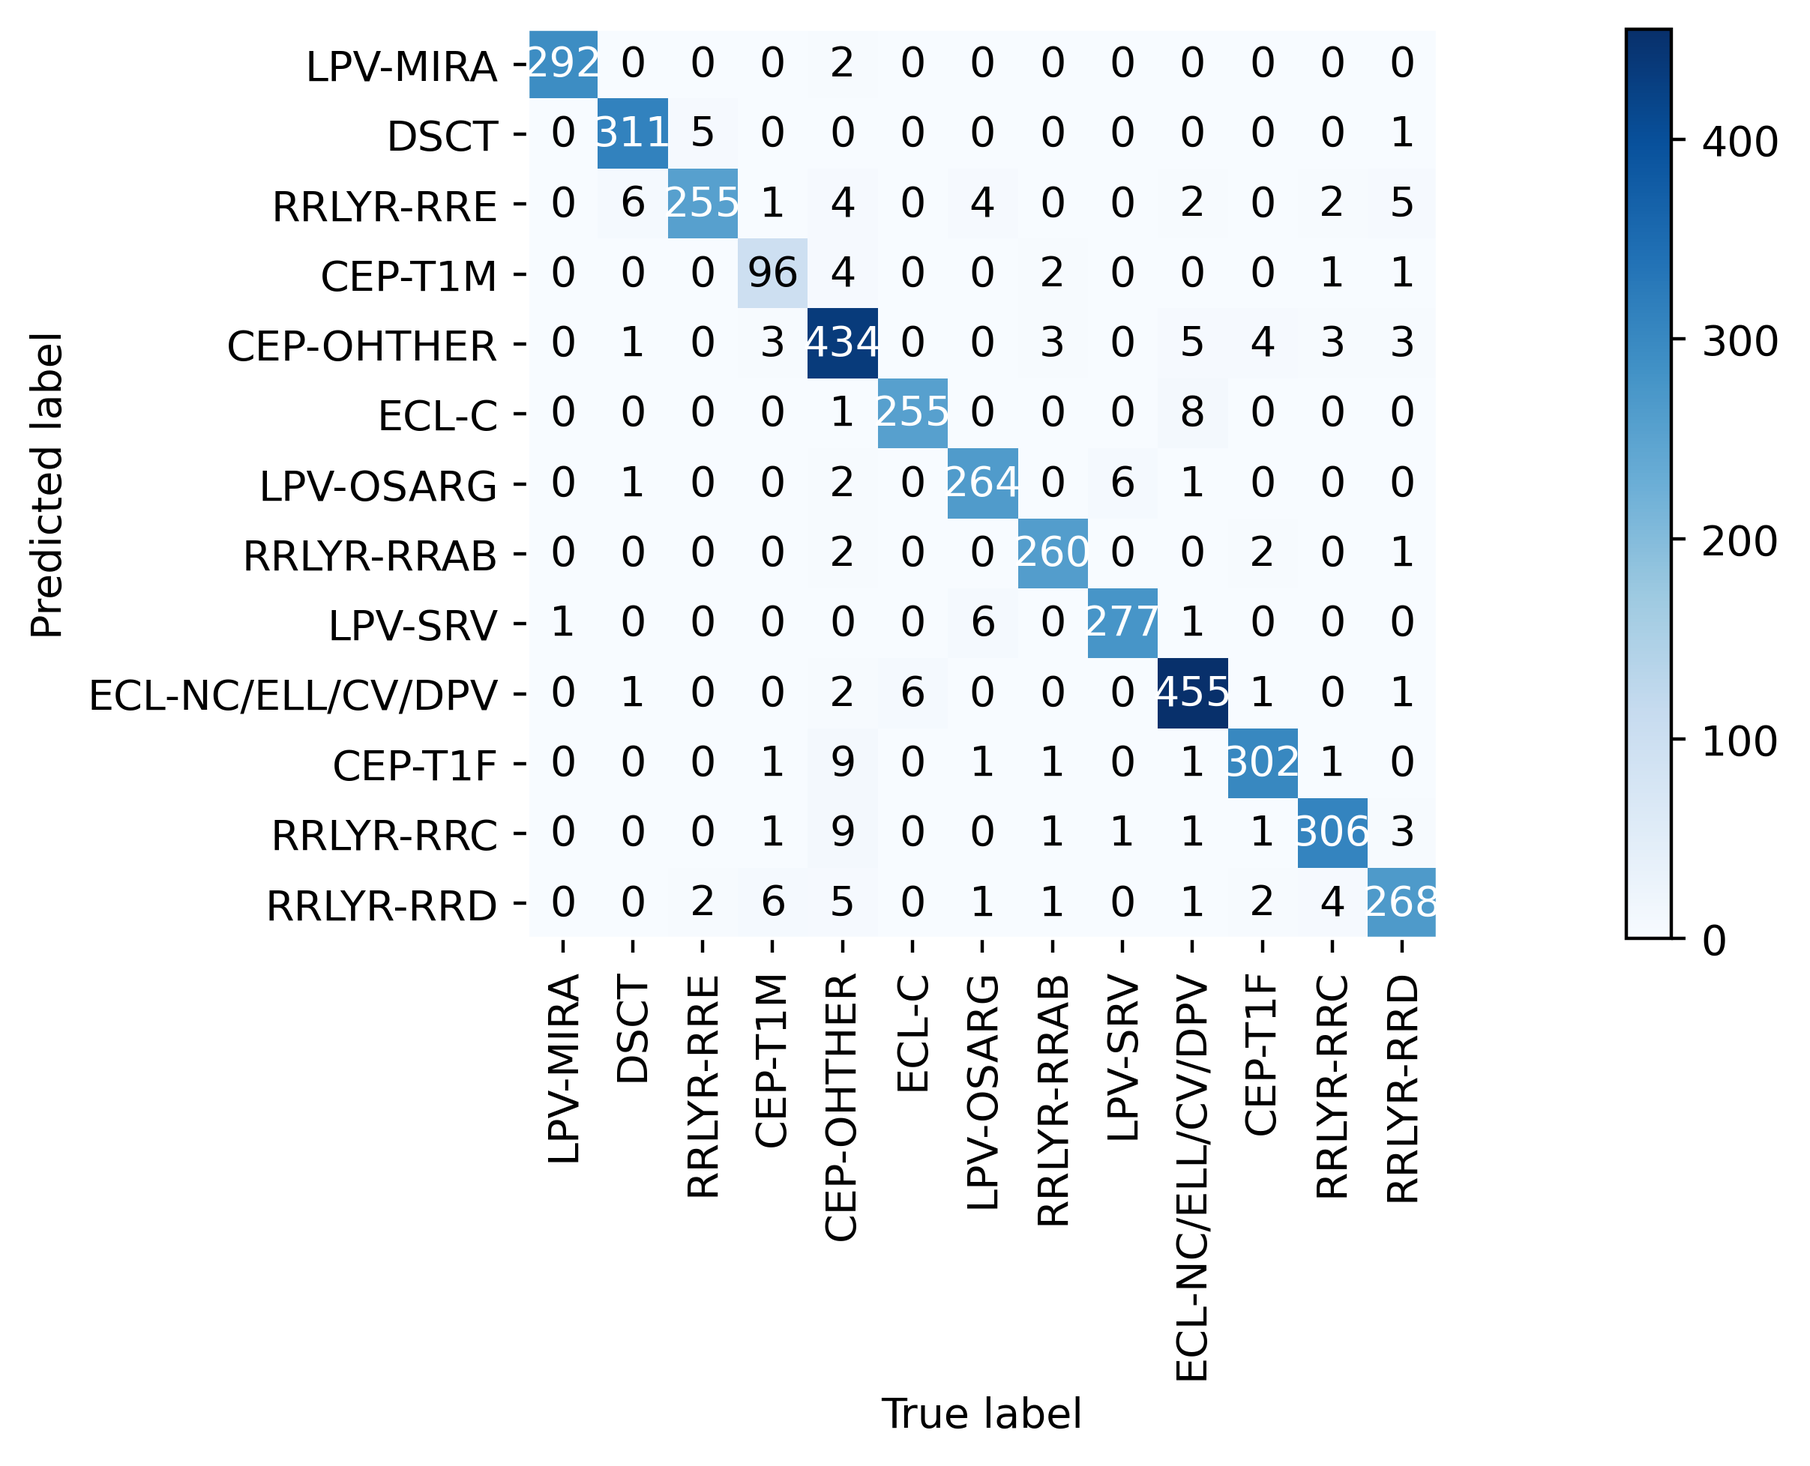
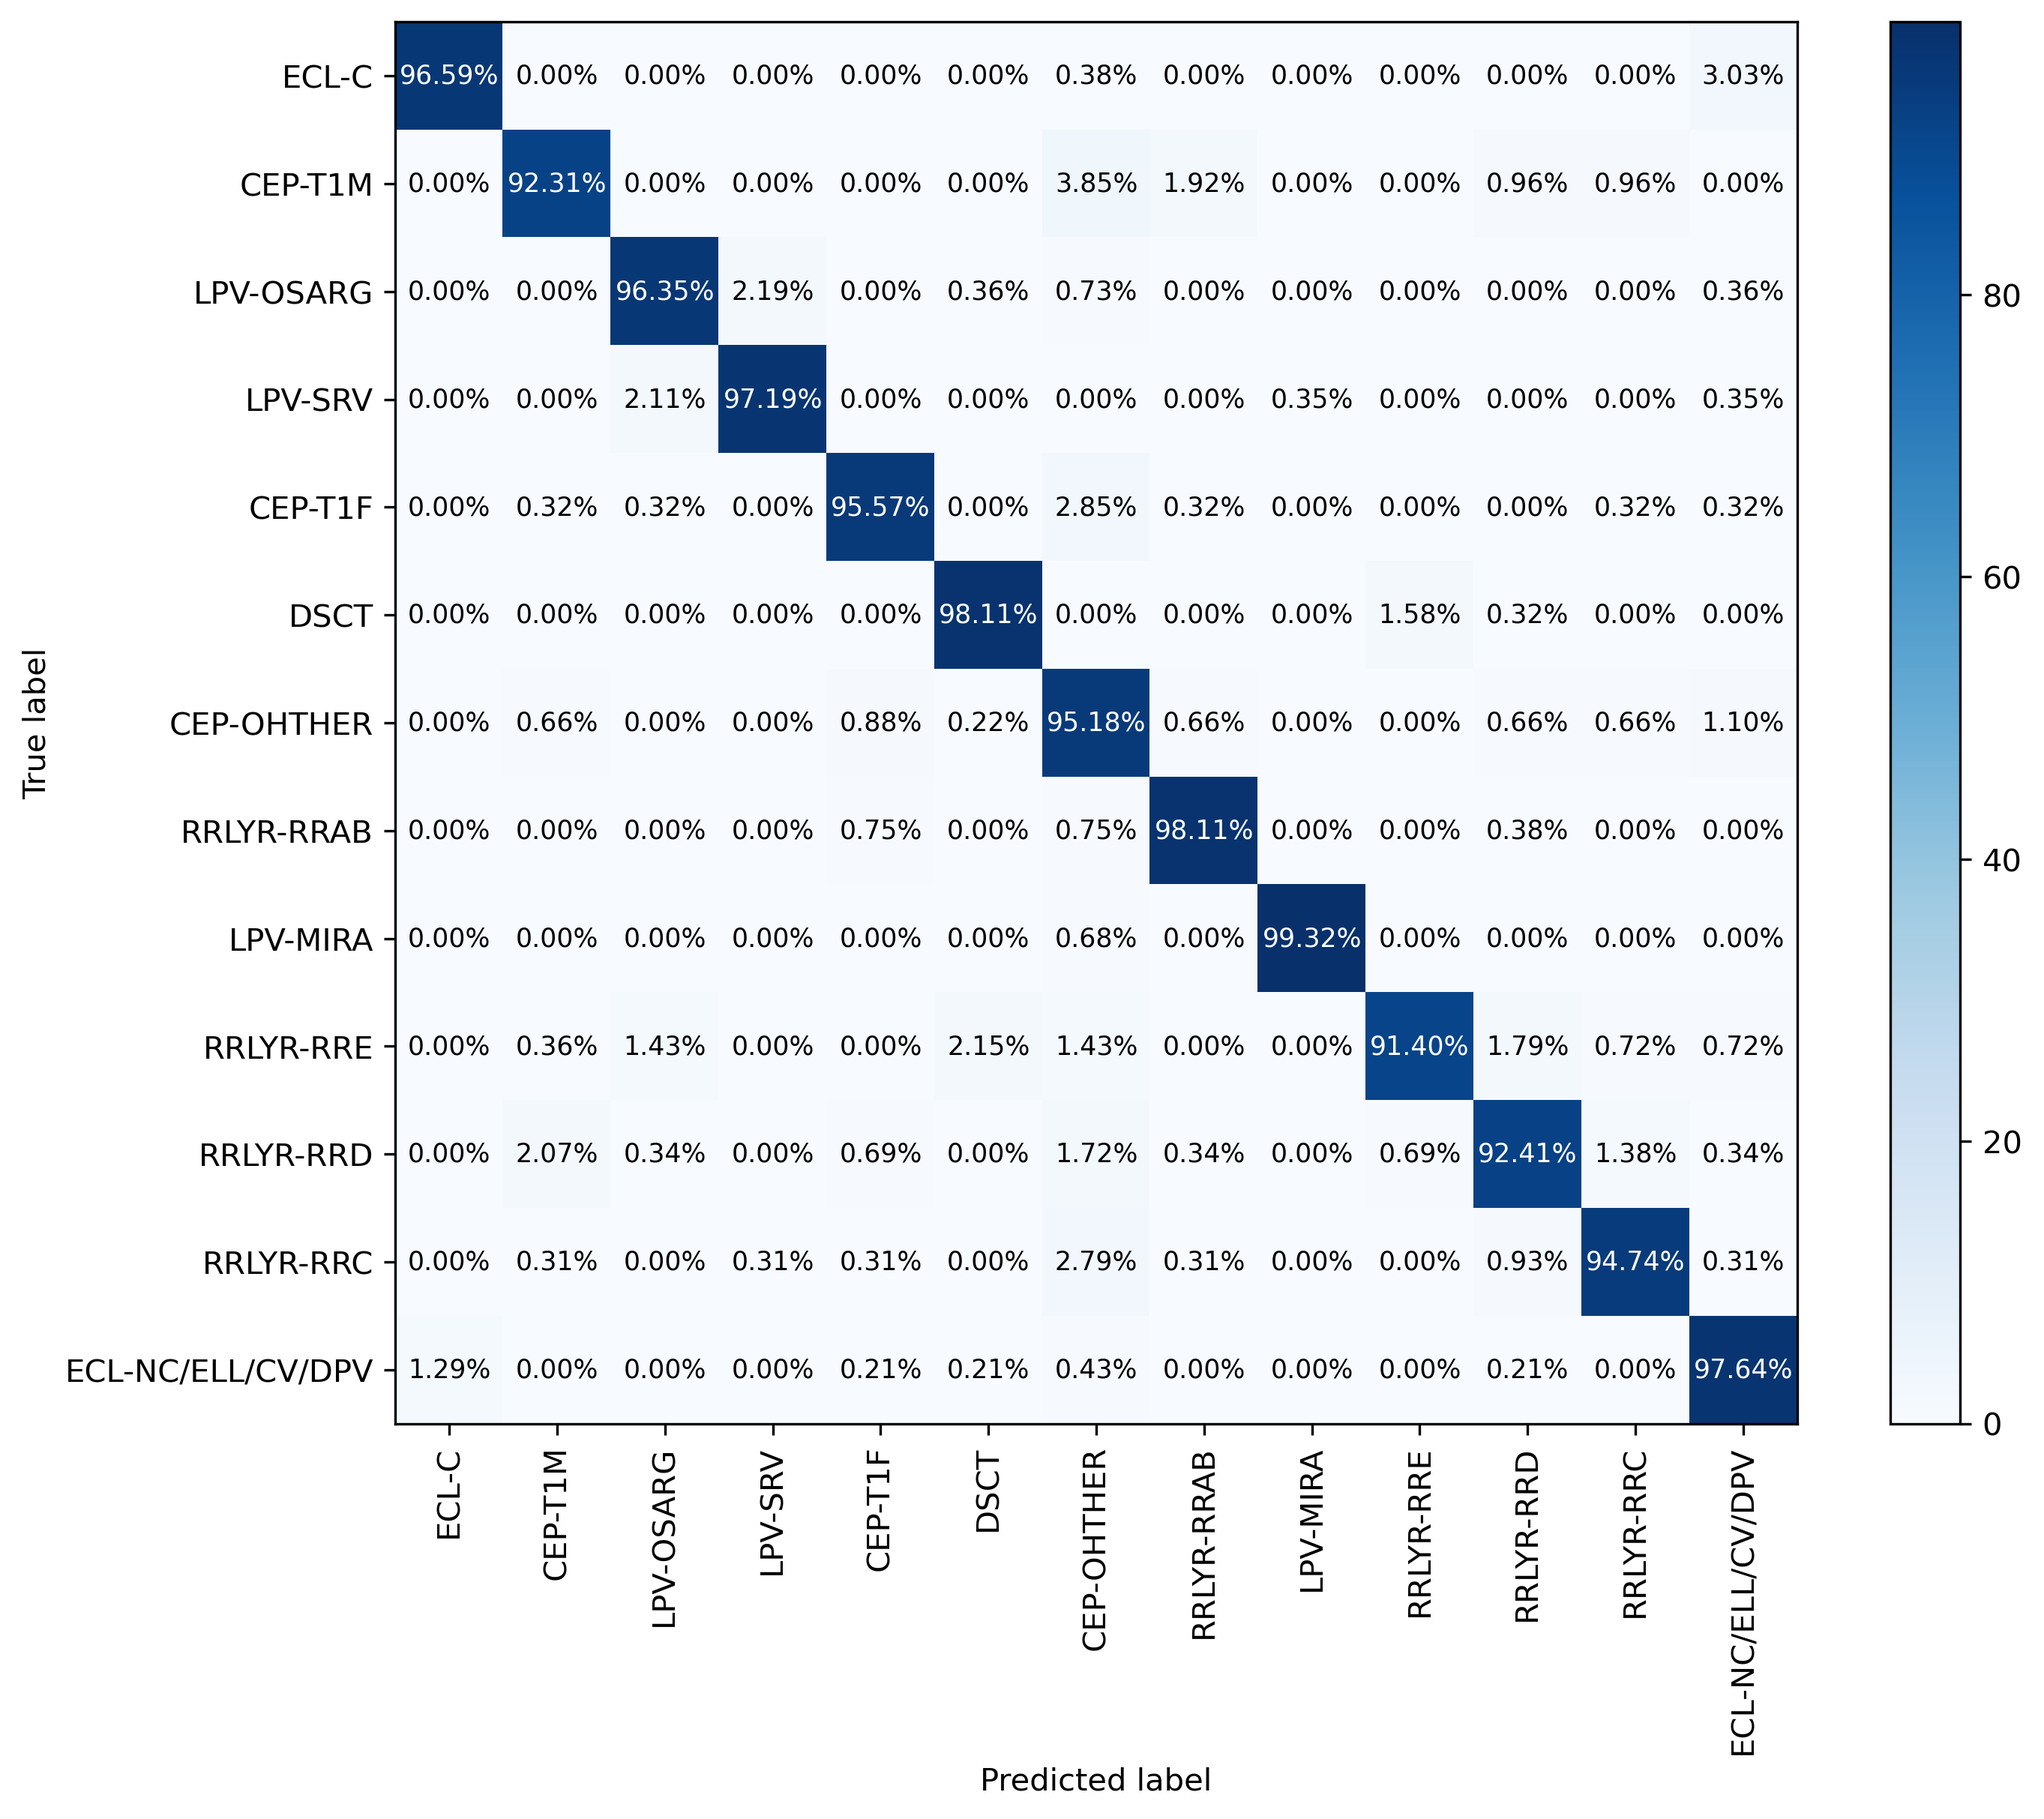
modify the implementation of confusion_matrix

Changed region(s): [[0.0311, 0.0, 0.9942, 0.9668], [0.466, 0.9356, 0.5903, 0.998], [0.0, 0.2183, 0.0311, 0.4366]]

diff --git a/classfiy.py b/classfiy.py
@@ -43,22 +43,14 @@ def str2int_list(l, classes):
                 l_int.append(j)
     return np.array(l_int)
 
-
-def plot_confusion_matrix(
-    cm,
-    classes,
-    title,
-    epoch,
-    dataset_name,
-    normalize=False,
-    cmap=plt.cm.Blues,
-):
+def plot_confusion_matrix(cm, classes, title, epoch, dataset_name, normalize=False, cmap=plt.cm.Blues):
+    plt.figure(figsize=(10, 8))  # Adjust figure size here
     if normalize:
-        cm = cm.astype("float") / cm.sum(axis=1)[:, np.newaxis]
+        cm = cm.astype('float') / cm.sum(axis=1)[:, np.newaxis] * 100  # Convert to percentage
         print("Normalized confusion matrix")
     else:
         print("Confusion matrix, without normalization")
-    # print(cm)
+
     plt.imshow(cm, interpolation="nearest", cmap=cmap)
     plt.title(title)
     plt.colorbar()
@@ -66,39 +58,37 @@ def plot_confusion_matrix(
     plt.xticks(tick_marks, classes, rotation=90)
     plt.yticks(tick_marks, classes)
 
-    # 。。。。。。。。。。。。新增代码开始处。。。。。。。。。。。。。。。。
-    # x,y轴长度一致(问题1解决办法）
-    plt.axis("equal")
-    # x轴处理一下，如果x轴或者y轴两边有空白的话(问题2解决办法）
-    ax = plt.gca()  # 获得当前axis
-    left, right = plt.xlim()  # 获得x轴最大最小值
-    ax.spines["left"].set_position(("data", left))
-    ax.spines["right"].set_position(("data", right))
-    for edge_i in ["top", "bottom", "right", "left"]:
-        ax.spines[edge_i].set_edgecolor("white")
-    # 。。。。。。。。。。。。新增代码结束处。。。。。。。。。。。。。。。。
+    # Dynamically adjust font size based on the number of classes
+    if len(classes) < 10:
+        fontsize = "medium"
+    elif len(classes) < 20:
+        fontsize = "small"
+    else:
+        fontsize = "x-small"
 
-    thresh = cm.max() / 2.0
+    thresh = cm.max() / 2.
     for i, j in itertools.product(range(cm.shape[0]), range(cm.shape[1])):
-        num = "{:.2f}".format(cm[i, j]) if normalize else int(cm[i, j])
-        plt.text(
-            j,
-            i,
-            num,
-            verticalalignment="center",
-            horizontalalignment="center",
-            color="white" if num > thresh else "black",
-        )
+        if normalize:
+            num = '{:.2f}%'.format(cm[i, j])  # Rounded to one decimal place
+        else:
+            num = '{}'.format(int(cm[i, j]))
+        
+        plt.text(j, i, num, verticalalignment="center", horizontalalignment="center", 
+                 color="white" if cm[i, j] > thresh else "black", fontsize=fontsize)
+
     plt.tight_layout()
-    plt.ylabel("Predicted label")
-    plt.xlabel("True label")
-    # if not os.path.exists('./'+os.path.basename(__file__).replace('.py', '_image/')):
-    #     os.makedirs('./'+os.path.basename(__file__).replace('.py', '_image/'))
+    plt.ylabel('True label')
+    plt.xlabel('Predicted label')
+
+    # Create directory if it does not exist
     path = f"./result/{dataset_name}/svm/"
-    print(path)
-    plt.savefig(
-        os.path.join(path, "confusion_matrix.png"), dpi=400, bbox_inches="tight"
-    )
+    if not os.path.exists(path):
+        os.makedirs(path)
+
+    # Save the figure
+    filename = f"confusion_matrix.png"
+    plt.savefig(os.path.join(path, filename), dpi=300, bbox_inches="tight")
+    plt.close()  # Close the plot to free memory
 
 
 def load_umap(path):
@@ -106,7 +96,6 @@ def load_umap(path):
     umap_20d_data = np.load(path + "umap_20d_data.npy")
     true_labels = np.load(path + "true_labels.npy")
 
-    # 生成labels字典
     class_labels_dict = {}
     for i in range(len(class_labels)):
         CEP_OHTHER = ["A", "T2", "T110", "T120"]
@@ -144,19 +133,13 @@ def load_umap(path):
         if class_labels[i] in RRE:
             class_labels_dict[i] = "RRLYR-RRE"
     classes = list(class_labels_dict.values())
-    # 合并相同的值classes:
     classes = list(set(classes))
-    # 生成true_labels字符串列表
 
     true_labels_list = []
     for i in range(len(true_labels)):
         true_labels_list.append(class_labels_dict[true_labels[i]])
 
     return umap_20d_data, true_labels_list, classes
-
-
-# Used for seeding random state
-
 
 def classify_aiastro():
     """
@@ -242,7 +225,7 @@ def classify_aiastro():
         classes=classes,
         title="",
         epoch=0,
-        normalize=False,
+        normalize=True,
         dataset_name=args.dataset,
     )
     print(classification_report(y_test, y_pred, target_names=classes))
